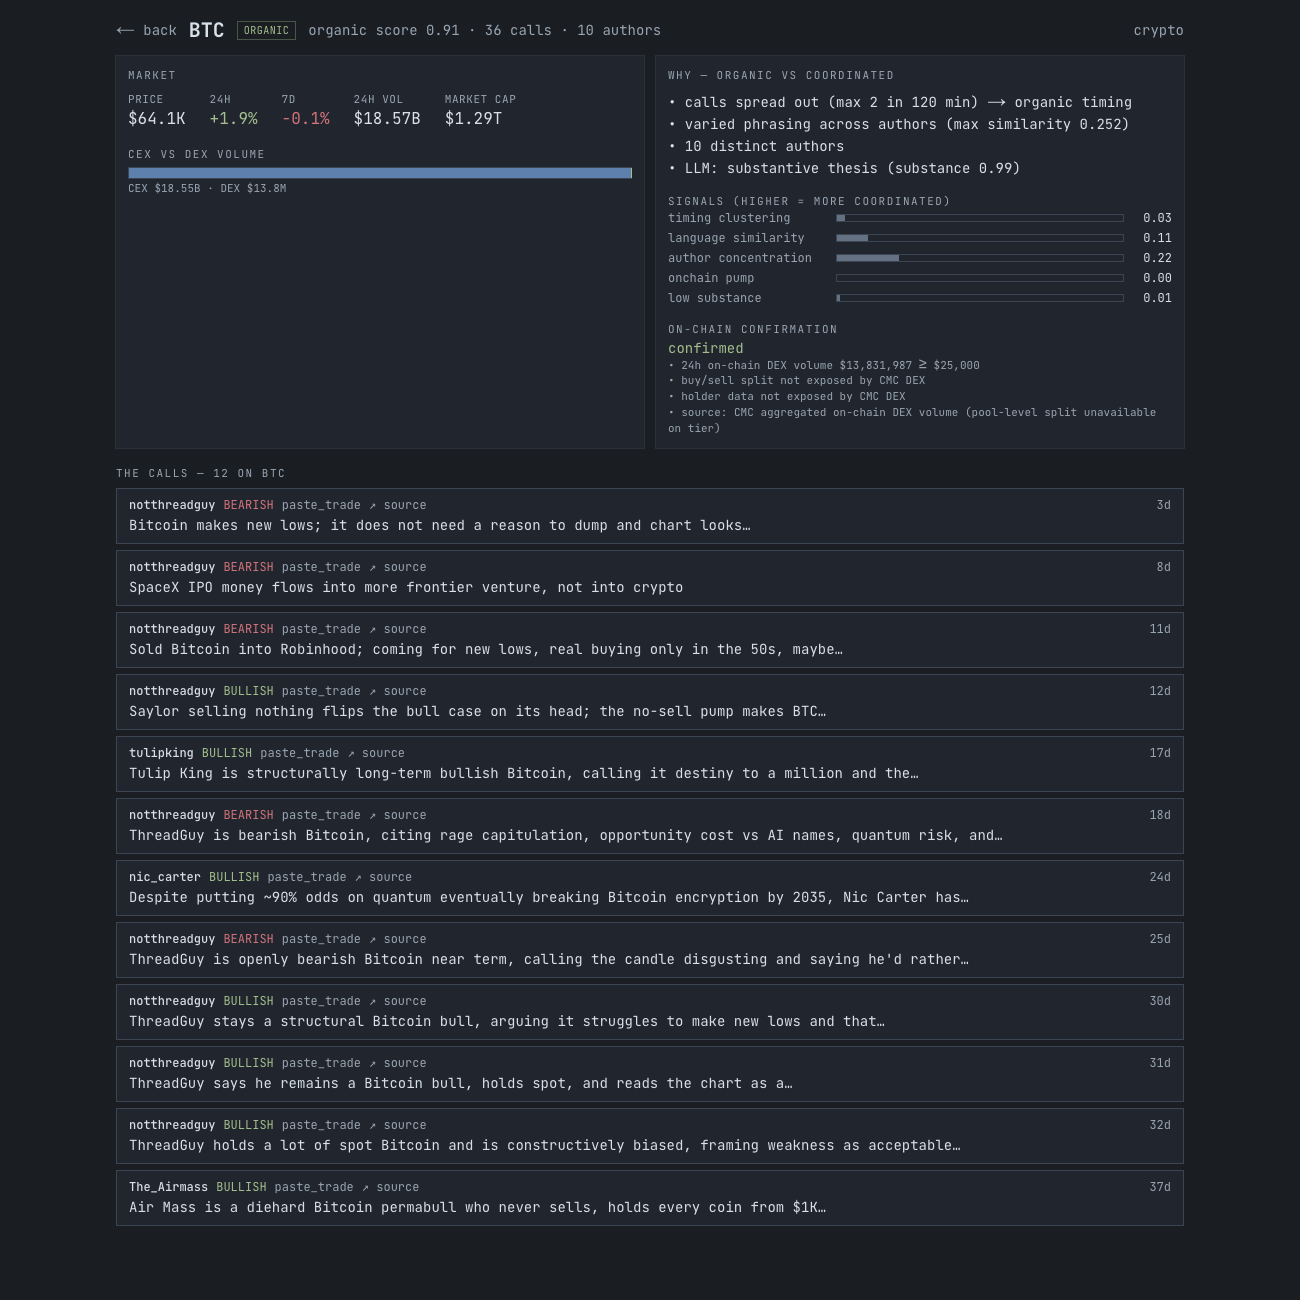
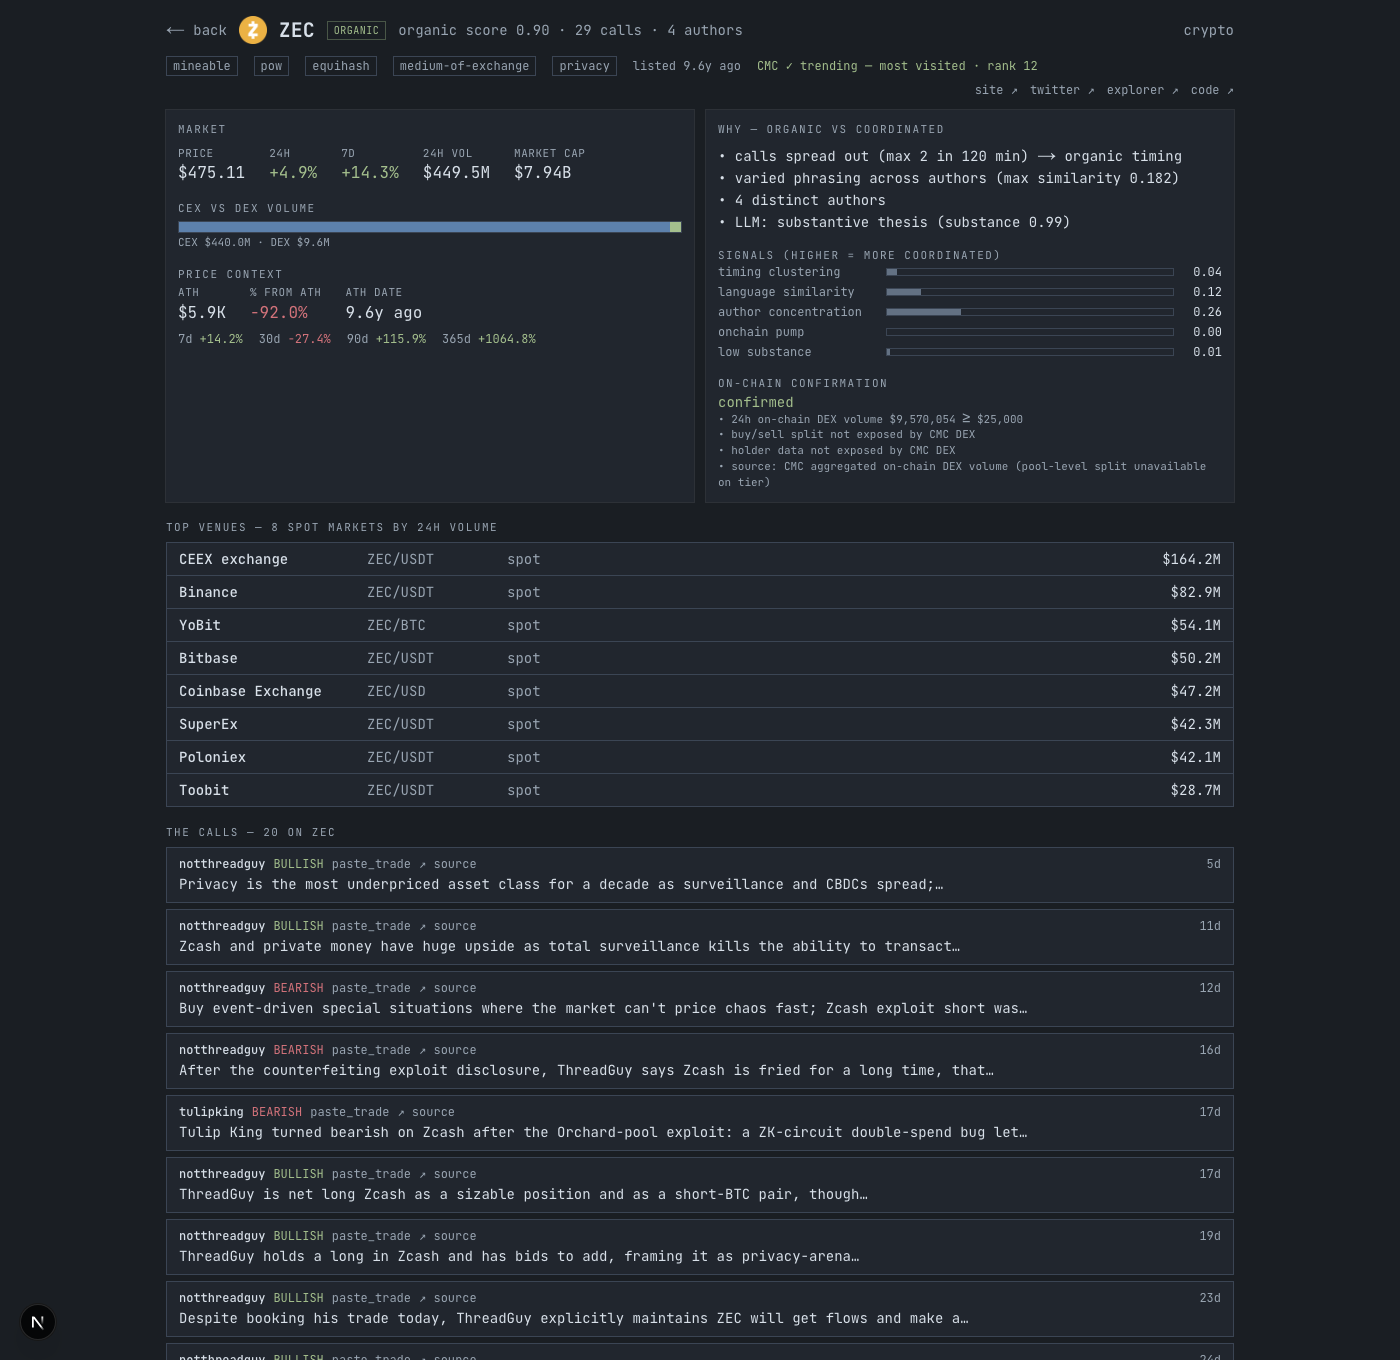
docs: new CMC families + /intel page; refreshed screenshots
- README: expanded "How CMC data is used" table (attention cross-ref, identity,
  price performance, market pairs, altcoin-season index); web section documents
  the /intel page + enriched thesis page.
- web/README: Market Intel + asset-thesis sections; F&G trend + altseason in
  market insights.
- docs/img: refreshed web-dashboard + web-asset, added web-intel.

diff --git a/web/README.md b/web/README.md
@@ -23,16 +23,26 @@ the call feed works regardless.
 - `npm run dev` — serve the existing `public/scan.json` without re-scanning.
 
 ## What it shows
-- **Context strip** — regime (Fear & Greed), heating narrative, trending topics, totals.
-- **Market insights** — total market cap, 24h / DeFi volume, BTC & ETH dominance, and a **CEX vs DEX
-  volume** split across the surfaced assets.
-- **Hot assets** — most-called assets (with price + 24h %); click one to open its detail page.
-- **Social-trades feed** — 3 views via the selector: `CALLS` (each call: author · asset+verdict ·
-  stance · time · snippet · source link), `ASSETS` (a table with price / 24h / CEX vol / DEX vol),
-  `GROUPED` (calls under each asset).
+- **Context strip** — regime (Fear & Greed + 14-day trend arrow), heating narrative, trending topics, totals.
+- **Market insights** — total market cap, 24h / DeFi volume, BTC & ETH dominance, the **real Altcoin
+  Season Index**, and a **CEX vs DEX volume** split across the surfaced assets.
+- **CMC crowd vs calls** strip — corroborated / KOL-only / CMC-only counts; links to Market Intel.
+- **Hot assets** — most-called assets (price + 24h %, plus a **CMC ✓** marker when CMC's crowd
+  corroborates the call); click one to open its thesis page.
+- **Social-trades feed** — 3 views via the selector: `CALLS` (author · asset+verdict · stance · time ·
+  snippet · source), `ASSETS` (table with price / 24h / CEX vol / DEX vol), `GROUPED` (calls per asset).
 - **Trade Ideas** — the confirmed subset with a gate scoreboard (heating / organic / confirmed / regime).
-- **Asset detail** (`/asset?symbol=X`) — price, % changes, **CEX vs DEX volume**, market cap; the
-  classifier verdict + reasons + per-signal feature bars + on-chain confirmation; and the asset's full
-  call feed with source links.
+
+### Market Intel (`/intel`)
+*CMC's own crowd vs the KOL calls.* Three columns — **corroborated** (called AND trending on CMC),
+**KOL-only** (called, CMC's crowd isn't watching = unconfirmed hype), **CMC-only** (trending on CMC,
+nobody's calling = under-called watch list) — plus market movers (gainers / losers / most-visited) and a
+regime panel (altcoin-season index, Fear & Greed 14-day trend, dominance).
+
+### Asset thesis (`/asset?symbol=X`)
+Logo, tags, listing age + **NEW** flag, provenance links; the **CMC-attention** line (which CMC lists it's
+trending in + rank); price, % changes, **CEX vs DEX volume**, market cap; **price context** (ATH, % from
+ATH, ROI ladder); **top venues**; the classifier verdict + reasons + feature bars + on-chain confirmation;
+and the asset's full call feed with source links.
 
 Verdict colors: green = organic, amber = mixed, red = coordinated.

diff --git a/README.md b/README.md
@@ -59,9 +59,14 @@ $MOON → COORDINATED (0.13)   6 calls in 38 min · Jaccard 1.0 copypasta · low
 | Community trending topics | Narrative heating |
 | Cryptocurrency categories + performance | Narrative heating |
 | Content (news + posts, engagement) | Call extraction |
-| DEX on-chain (liquidity, buy/sell, holders) | On-chain confirmation |
+| DEX on-chain (liquidity, buy/sell) | On-chain confirmation |
 | Global metrics + Fear & Greed | Regime gate |
 | OHLCV historical | Backtest |
+| Trending (most-visited, gainers/losers) + community trending tokens | **Attention cross-ref** — does CMC's crowd corroborate the calls? |
+| Metadata (logo, tags, links, listing date) | Asset identity + provenance + "new token" flag |
+| Price performance (ATH, % from ATH, ROI ladder) | Price context (early vs late) |
+| Market pairs (top spot venues) | CEX/DEX venue breakdown |
+| Altcoin Season Index + F&G history | Regime gate (real index + trend, not a proxy) |
 
 CMC is the data spine via the REST Pro API (deterministic path) and the [CMC MCP](https://coinmarketcap.com/api/mcp) (the agent's exploration + narration).
 
@@ -91,12 +96,22 @@ terminal theme.
 cd web && npm install && npm run scan:dev   # scans, then opens http://localhost:3000
 ```
 
-It has a market-insights panel (total/DeFi volume, dominance, CEX-vs-DEX split), the hot-assets bar, the
-3-mode social feed, a Trade Ideas panel, and a per-asset **detail page** (`/asset?symbol=X`) with market
-stats (incl. CEX/DEX volume), the classifier breakdown, and the asset's full call feed.
+It has a market-insights panel (total/DeFi volume, dominance, **real altcoin-season index**, F&G trend,
+CEX-vs-DEX split), the hot-assets bar (with a **CMC ✓** marker when CMC's own crowd corroborates a call),
+the 3-mode social feed, and a Trade Ideas panel.
+
+Two more views deepen each asset/thesis:
+
+- **Market Intel** (`/intel`) — *CMC's own crowd vs the KOL calls*: **corroborated** (called + trending on
+  CMC), **KOL-only** (unconfirmed hype), **CMC-only** (trending but under-called); market movers
+  (gainers/losers/most-visited); and a regime panel (altcoin-season index, F&G 14-day trend, dominance).
+- **Asset thesis** (`/asset?symbol=X`) — logo, tags, listing age + "NEW" flag, provenance links, the
+  CMC-attention line, market stats + CEX/DEX split, **price context** (ATH, % from ATH, ROI ladder), **top
+  venues**, the classifier breakdown, and the asset's full call feed.
 
 ![Web dashboard](docs/img/web-dashboard.png)
-![Asset detail](docs/img/web-asset.png)
+![Market Intel — CMC's crowd vs the calls](docs/img/web-intel.png)
+![Asset thesis](docs/img/web-asset.png)
 
 ## Data sources & access (honest)
 